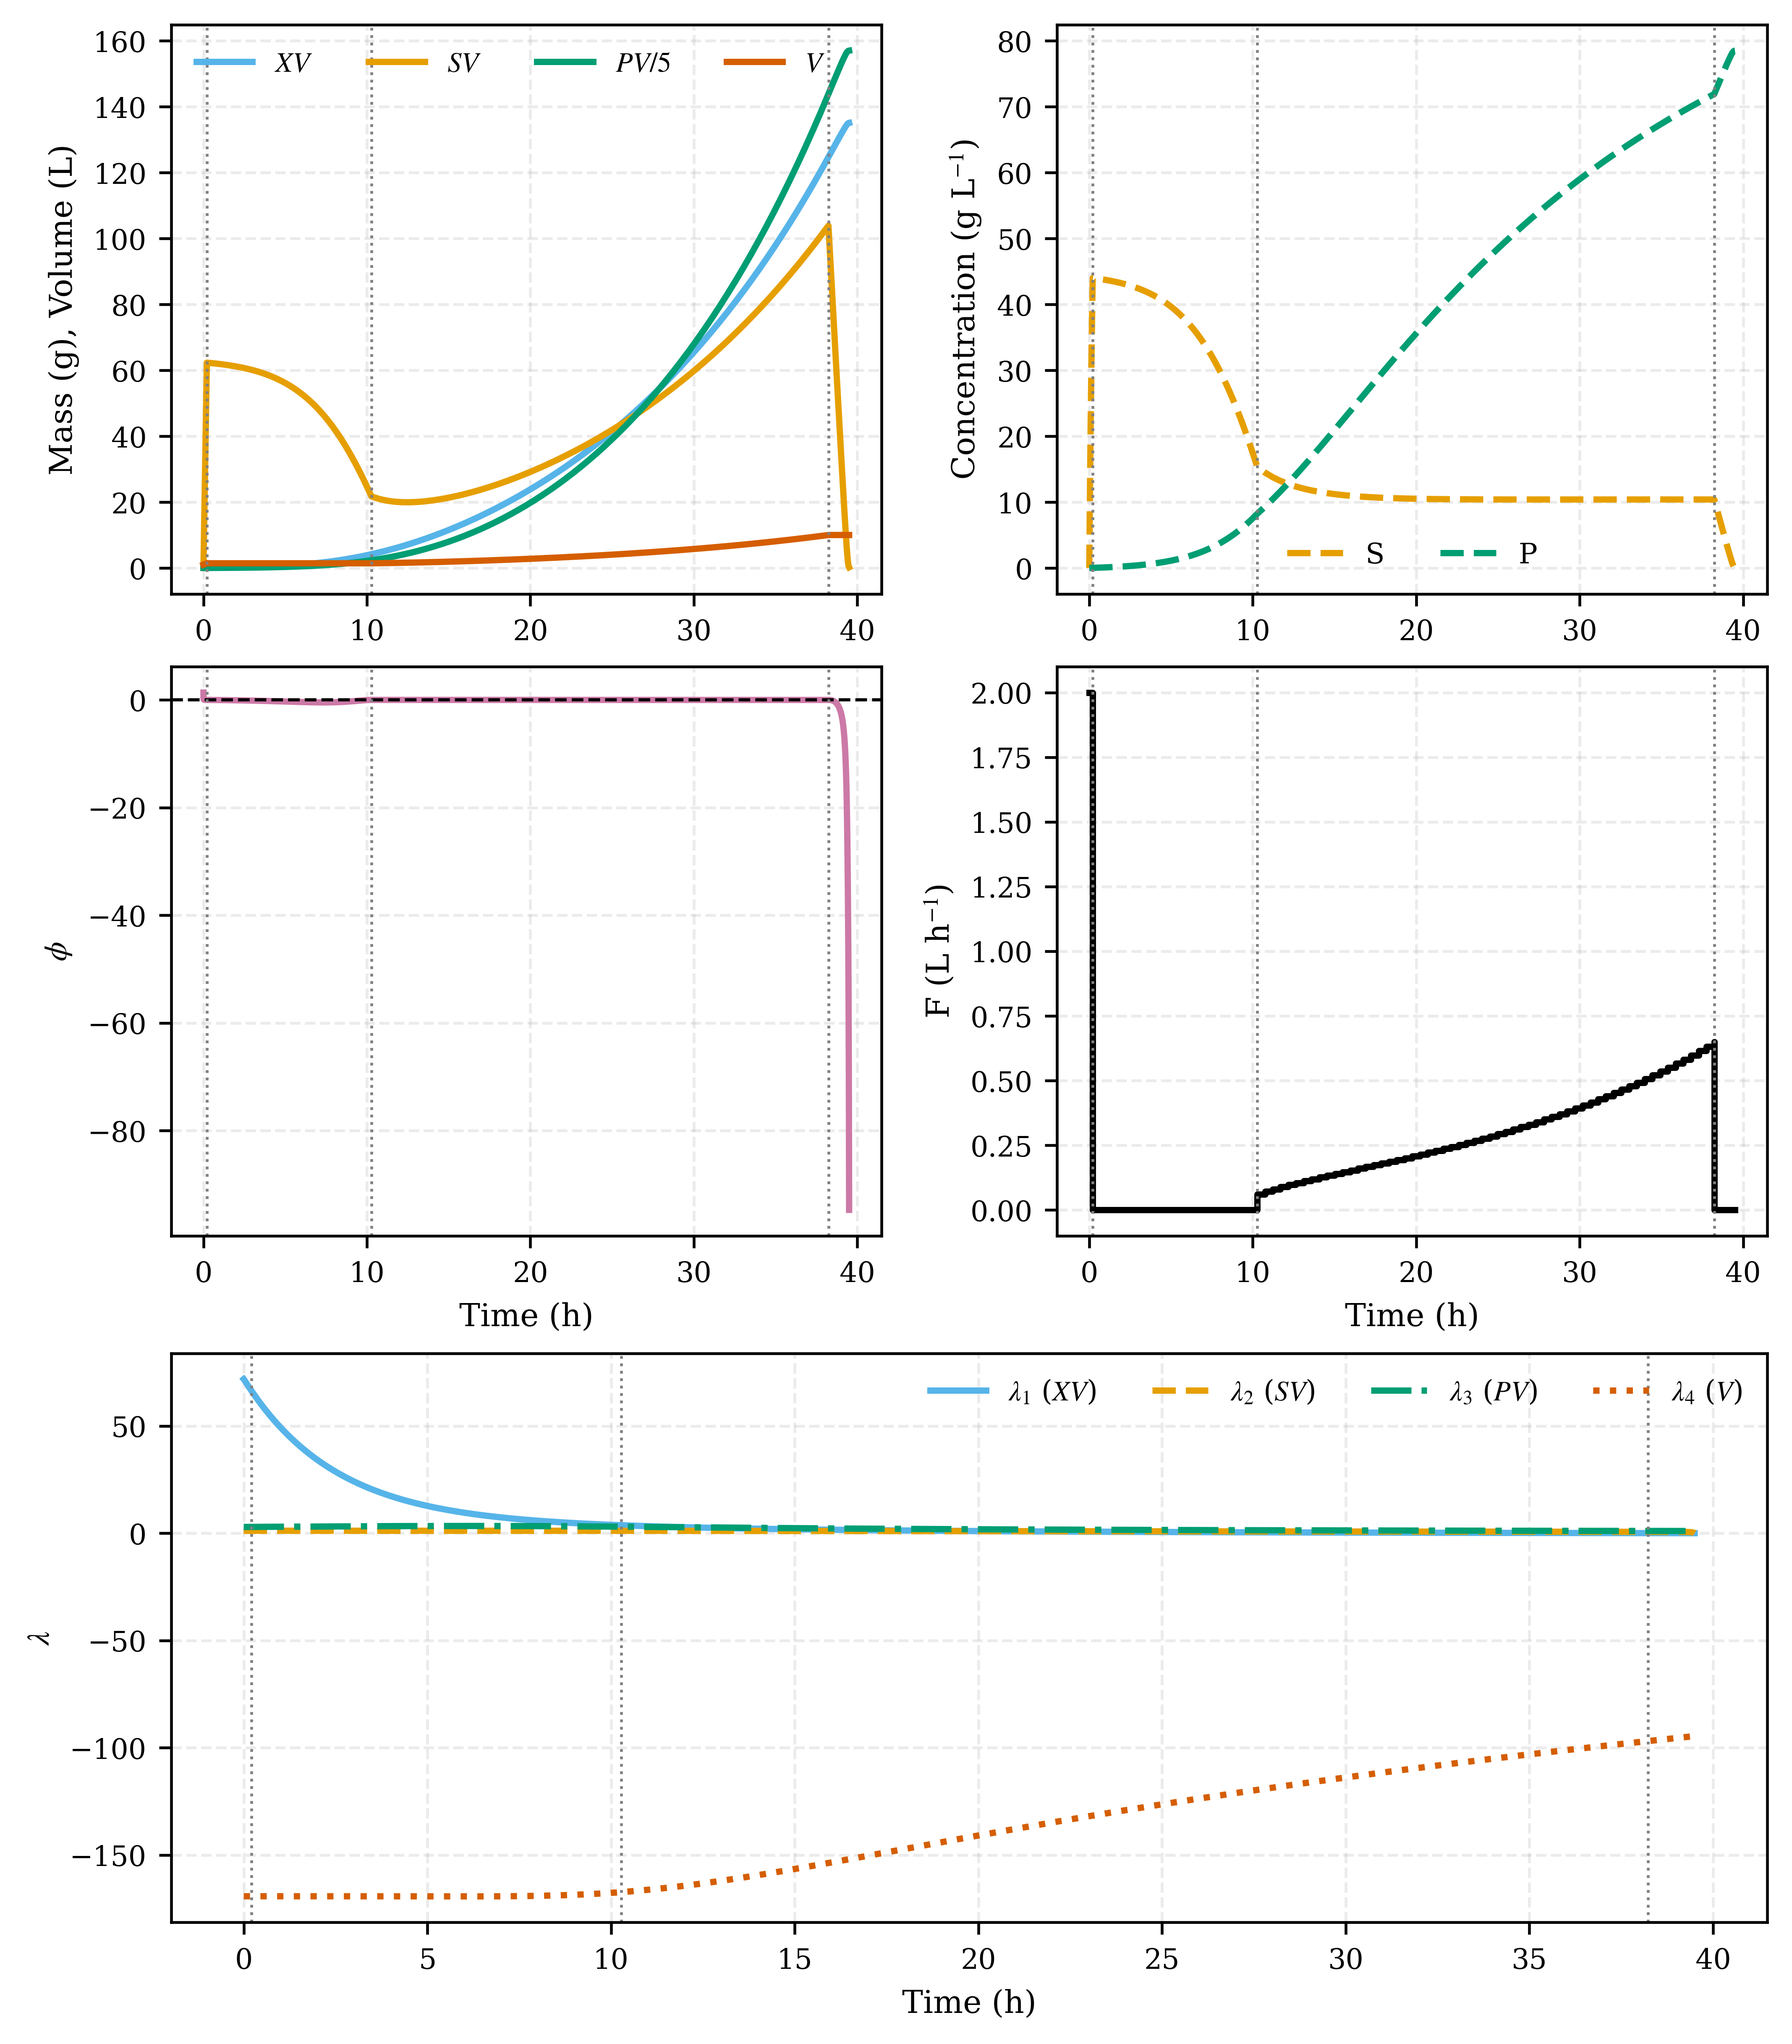
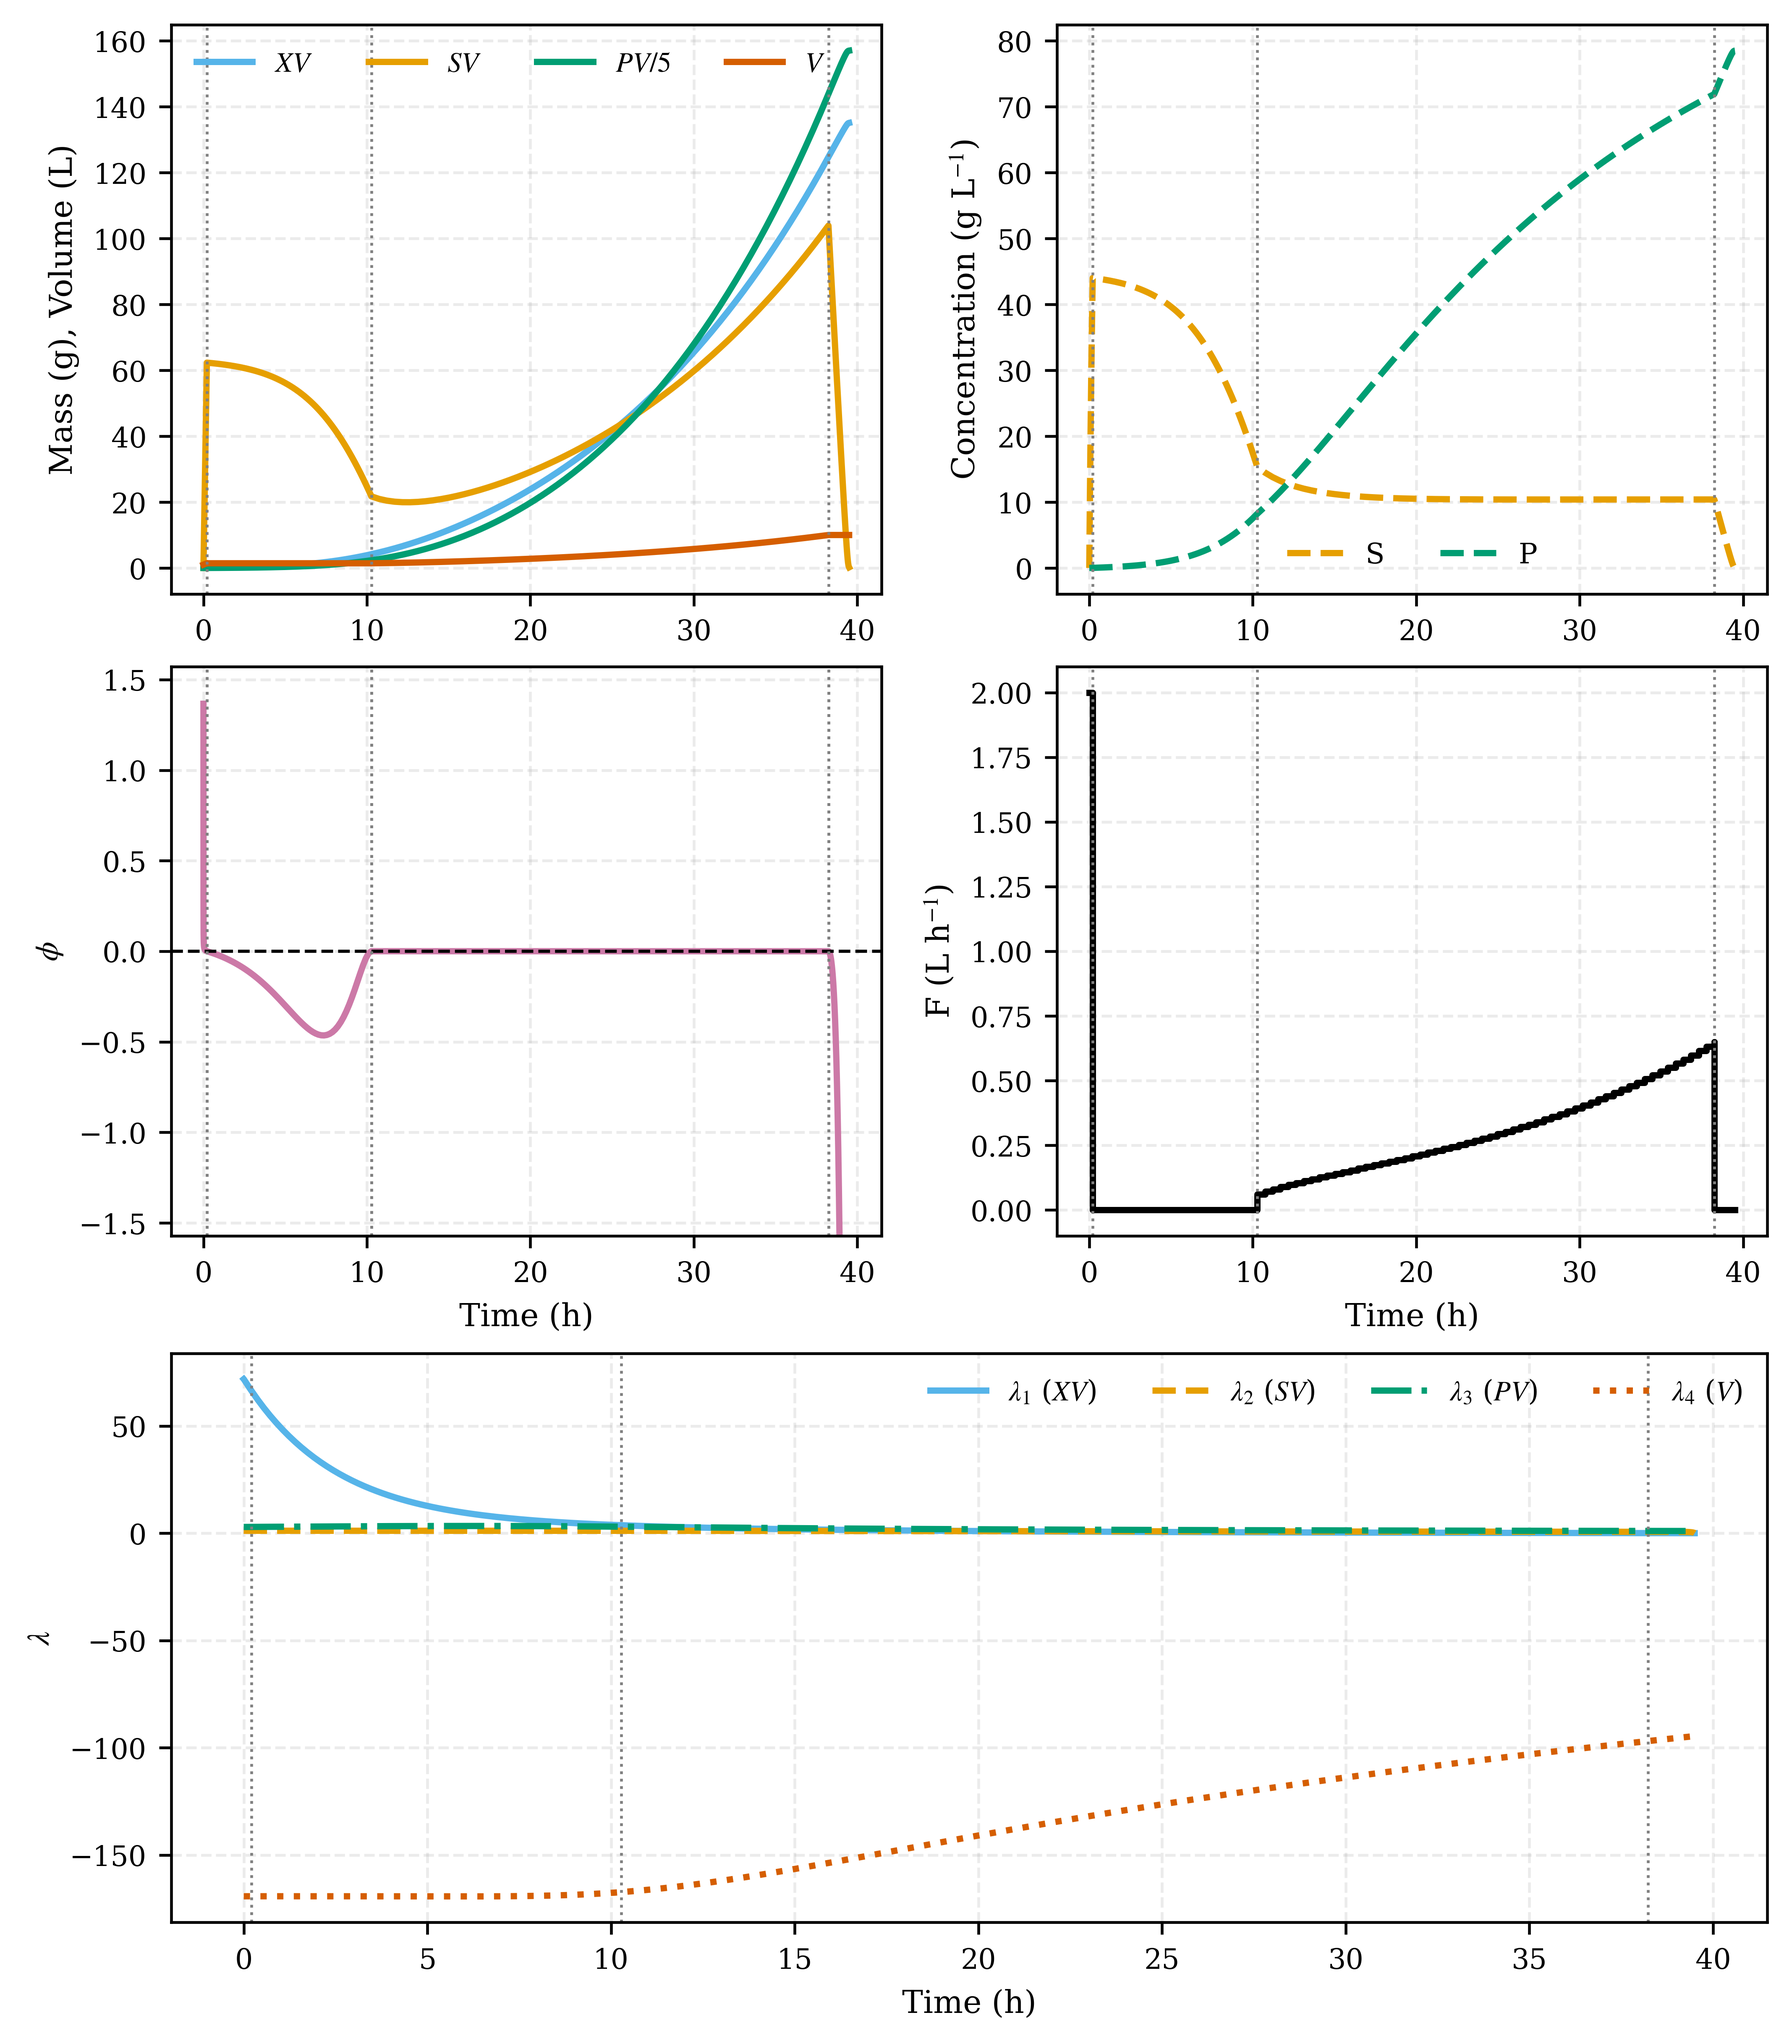
clip y axis of switching function to see the change of sign

diff --git a/scripts/substrate_and_product_inhibition/hybrid_spi_reference.py b/scripts/substrate_and_product_inhibition/hybrid_spi_reference.py
@@ -251,6 +251,11 @@ if __name__ == "__main__":
 
     axd["phi"].plot(T, phi_all, color=oi["reddish_purple"])
     axd["phi"].axhline(0,color=oi["black"],ls="--", lw=0.9)
+    arcs = T <= sw_eff[-1]
+    lim = 1.15 * np.nanmax(np.abs(phi_all[arcs]))
+    axd["phi"].set_ylim(-lim, lim)
+    for tsw in sw_eff:
+        axd["phi"].axvline(tsw, color="0.6", ls=":", lw=0.8)
     axd["phi"].set_ylabel("$\\phi$")
     axd["phi"].set_xlabel("Time (h)")
     
